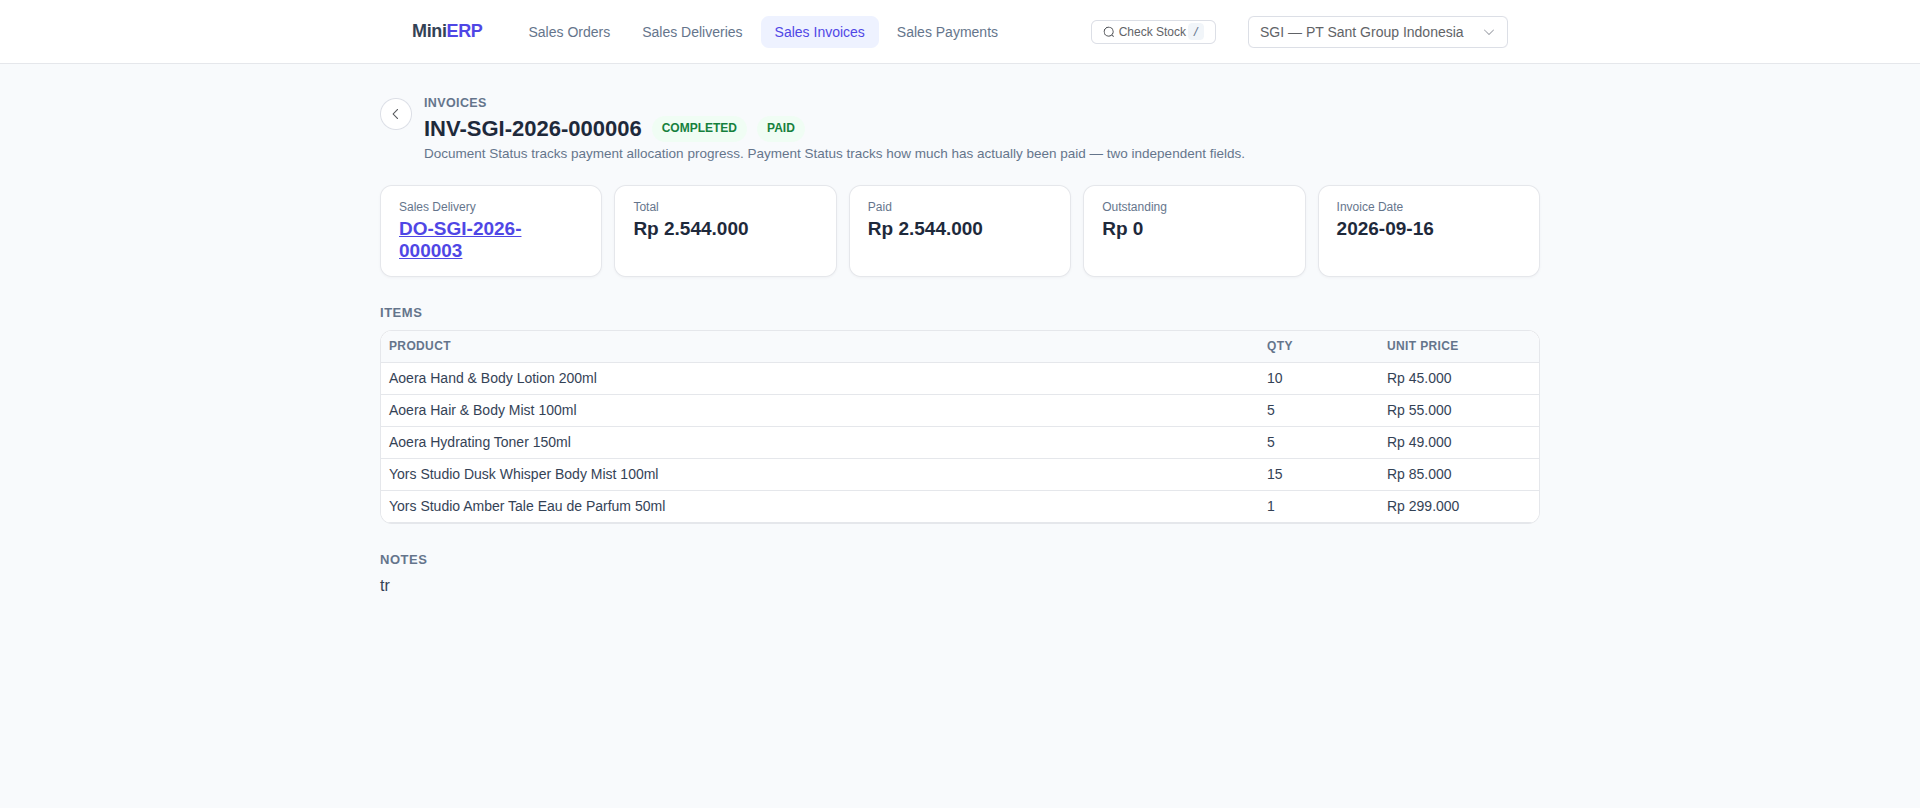
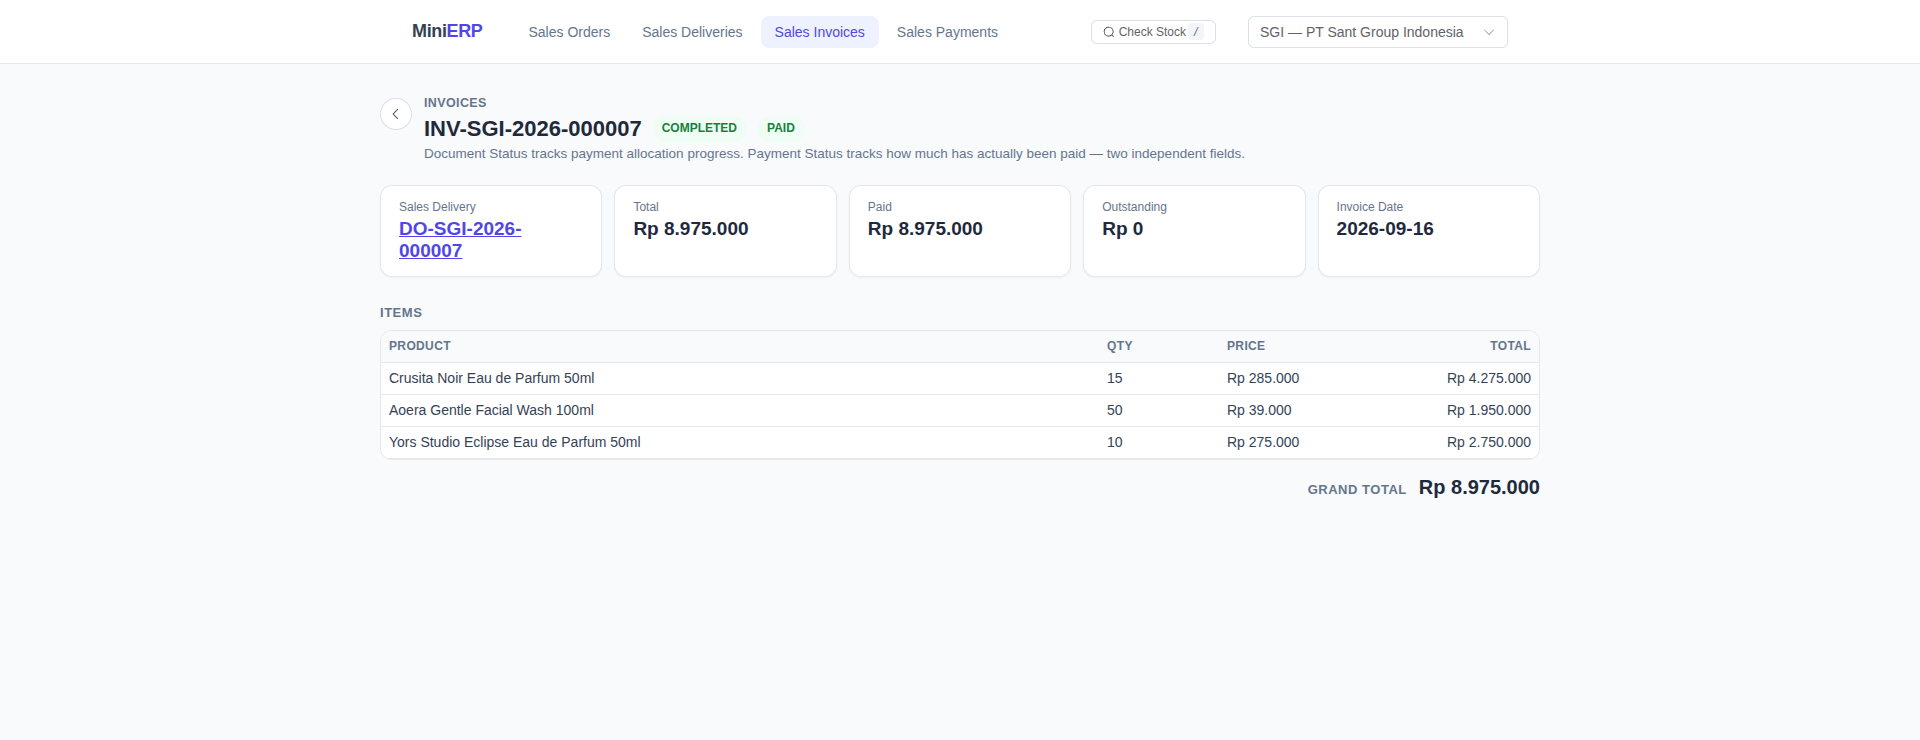
sales module update

diff --git a/frontend/src/components/RemainingQtyPicker.vue b/frontend/src/components/RemainingQtyPicker.vue
@@ -1,10 +1,12 @@
 <script setup lang="ts">
-import { formatQty } from '../utils/format'
+import { computed } from 'vue'
+import { formatMoney, formatQty } from '../utils/format'
 
 export interface PickerRow {
   sourceItemId: number
   productName: string
   available: string
+  unitPrice?: string
 }
 
 const props = defineProps<{
@@ -16,27 +18,46 @@ const emit = defineEmits<{ (e: 'update:modelValue', value: Record<number, string
 function onQtyChange(sourceItemId: number, value: string | number) {
   emit('update:modelValue', { ...props.modelValue, [sourceItemId]: String(value) })
 }
+
+const hasPrice = computed(() => props.rows.some((row) => row.unitPrice !== undefined))
+function rowTotal(row: PickerRow) {
+  return Number(props.modelValue[row.sourceItemId] ?? 0) * Number(row.unitPrice ?? 0)
+}
+const grandTotal = computed(() => props.rows.reduce((sum, row) => sum + rowTotal(row), 0))
 </script>
 
 <template>
-  <el-table :data="rows" size="small" border empty-text="Nothing left to pull -- every line has already been fully pulled.">
-    <el-table-column prop="productName" label="Product" />
-    <el-table-column label="Remaining" width="140">
-      <template #default="{ row }">{{ formatQty(row.available) }}</template>
-    </el-table-column>
-    <el-table-column label="Qty" width="180">
-      <template #default="{ row }">
-        <el-input-number
-          :model-value="Number(modelValue[row.sourceItemId] ?? 0)"
-          :min="0"
-          :max="Math.max(Number(row.available), Number(modelValue[row.sourceItemId] ?? 0))"
-          :step="1"
-          :controls="false"
-          size="small"
-          style="width: 100%"
-          @update:model-value="onQtyChange(row.sourceItemId, $event ?? 0)"
-        />
-      </template>
-    </el-table-column>
-  </el-table>
+  <div>
+    <el-table :data="rows" size="small" border empty-text="Nothing left to pull -- every line has already been fully pulled.">
+      <el-table-column prop="productName" label="Product" />
+      <el-table-column label="Remaining" width="140">
+        <template #default="{ row }">{{ formatQty(row.available) }}</template>
+      </el-table-column>
+      <el-table-column label="Qty" width="180">
+        <template #default="{ row }">
+          <el-input-number
+            :model-value="Number(modelValue[row.sourceItemId] ?? 0)"
+            :min="0"
+            :max="Math.max(Number(row.available), Number(modelValue[row.sourceItemId] ?? 0))"
+            :step="1"
+            :controls="false"
+            size="small"
+            style="width: 100%"
+            @update:model-value="onQtyChange(row.sourceItemId, $event ?? 0)"
+          />
+        </template>
+      </el-table-column>
+      <el-table-column v-if="hasPrice" label="Price" width="160" align="right">
+        <template #default="{ row }">{{ formatMoney(row.unitPrice ?? 0) }}</template>
+      </el-table-column>
+      <el-table-column v-if="hasPrice" label="Total" width="160" align="right">
+        <template #default="{ row }">{{ formatMoney(rowTotal(row)) }}</template>
+      </el-table-column>
+    </el-table>
+
+    <div v-if="hasPrice" class="grand-total">
+      <span class="grand-total-label">Grand Total</span>
+      <span class="grand-total-value">{{ formatMoney(grandTotal) }}</span>
+    </div>
+  </div>
 </template>

diff --git a/frontend/src/views/sales-orders/SalesOrderFormView.vue b/frontend/src/views/sales-orders/SalesOrderFormView.vue
@@ -1,5 +1,5 @@
 <script setup lang="ts">
-import { onMounted, reactive, ref } from 'vue'
+import { computed, onMounted, reactive, ref } from 'vue'
 import { useRouter } from 'vue-router'
 import { ElMessage, ElMessageBox } from 'element-plus'
 import { Delete, Plus } from '@element-plus/icons-vue'
@@ -7,6 +7,7 @@ import { salesOrderApi } from '../../api/salesOrderApi'
 import { useCatalogStore } from '../../stores/catalogStore'
 import { useCompanyStore } from '../../stores/companyStore'
 import { apiErrorMessage } from '../../api/client'
+import { formatMoney } from '../../utils/format'
 import PageHeader from '../../components/PageHeader.vue'
 
 interface FormLine {
@@ -57,6 +58,11 @@ onMounted(async () => {
     }
   }
 })
+
+function lineTotal(row: FormLine) {
+  return (row.qty_ordered || 0) * (row.unit_price || 0)
+}
+const grandTotal = computed(() => items.value.reduce((sum, it) => sum + lineTotal(it), 0))
 
 function addRow() {
   items.value.push({ product_id: null, qty_ordered: 1, unit_price: 0 })
@@ -185,9 +191,14 @@ async function submit(thenSubmit = false) {
             <el-input-number v-model="row.qty_ordered" :min="0.001" :controls="false" style="width: 100%" />
           </template>
         </el-table-column>
-        <el-table-column label="Unit Price" width="180">
+        <el-table-column label="Price" width="180">
           <template #default="{ row }">
             <el-input-number v-model="row.unit_price" :min="0" :controls="false" style="width: 100%" />
+          </template>
+        </el-table-column>
+        <el-table-column label="Total" width="180" align="right">
+          <template #default="{ row }">
+            {{ formatMoney(lineTotal(row)) }}
           </template>
         </el-table-column>
         <el-table-column label="" width="56" align="center">
@@ -206,6 +217,11 @@ async function submit(thenSubmit = false) {
           </template>
         </el-table-column>
       </el-table>
+
+      <div class="grand-total">
+        <span class="grand-total-label">Grand Total</span>
+        <span class="grand-total-value">{{ formatMoney(grandTotal) }}</span>
+      </div>
 
       <div class="form-footer">
         <el-button @click="router.back()">Cancel</el-button>

diff --git a/frontend/src/views/sales-orders/SalesOrderDetailView.vue b/frontend/src/views/sales-orders/SalesOrderDetailView.vue
@@ -97,10 +97,18 @@ function createDelivery() {
       <el-table-column label="Remaining" width="140">
         <template #default="{ row }">{{ formatQty(row.remaining_qty ?? row.qty_ordered) }}</template>
       </el-table-column>
-      <el-table-column label="Unit Price" width="160">
+      <el-table-column label="Price" width="160">
         <template #default="{ row }">{{ formatMoney(row.unit_price) }}</template>
       </el-table-column>
+      <el-table-column label="Total" width="160" align="right">
+        <template #default="{ row }">{{ formatMoney(Number(row.qty_ordered) * Number(row.unit_price)) }}</template>
+      </el-table-column>
     </el-table>
+
+    <div class="grand-total">
+      <span class="grand-total-label">Grand Total</span>
+      <span class="grand-total-value">{{ formatMoney(order.total_amount) }}</span>
+    </div>
 
     <template v-if="order.notes">
       <div class="section-title">Notes</div>

diff --git a/frontend/src/views/sales-invoices/SalesInvoiceDetailView.vue b/frontend/src/views/sales-invoices/SalesInvoiceDetailView.vue
@@ -110,10 +110,18 @@ function createPayment() {
       <el-table-column label="Qty" width="120">
         <template #default="{ row }">{{ formatQty(row.qty) }}</template>
       </el-table-column>
-      <el-table-column label="Unit Price" width="160">
+      <el-table-column label="Price" width="160">
         <template #default="{ row }">{{ formatMoney(row.unit_price) }}</template>
       </el-table-column>
+      <el-table-column label="Total" width="160" align="right">
+        <template #default="{ row }">{{ formatMoney(Number(row.qty) * Number(row.unit_price)) }}</template>
+      </el-table-column>
     </el-table>
+
+    <div class="grand-total">
+      <span class="grand-total-label">Grand Total</span>
+      <span class="grand-total-value">{{ formatMoney(invoice.total_amount) }}</span>
+    </div>
 
     <template v-if="invoice.notes">
       <div class="section-title">Notes</div>

diff --git a/frontend/src/style.css b/frontend/src/style.css
@@ -292,6 +292,26 @@ a {
   border-top: 1px solid var(--border);
 }
 
+.grand-total {
+  display: flex;
+  justify-content: flex-end;
+  align-items: baseline;
+  gap: 12px;
+  margin-top: 16px;
+}
+.grand-total-label {
+  font-size: 13px;
+  font-weight: 600;
+  color: var(--gray-500);
+  text-transform: uppercase;
+  letter-spacing: 0.04em;
+}
+.grand-total-value {
+  font-size: 20px;
+  font-weight: 700;
+  color: var(--gray-900);
+}
+
 /* Filter / search bar */
 .filter-bar {
   display: flex;

diff --git a/frontend/src/views/sales-payments/SalesPaymentDetailView.vue b/frontend/src/views/sales-payments/SalesPaymentDetailView.vue
@@ -94,6 +94,11 @@ async function remove() {
       </el-table-column>
     </el-table>
 
+    <div class="grand-total">
+      <span class="grand-total-label">Grand Total</span>
+      <span class="grand-total-value">{{ formatMoney(payment.total_amount) }}</span>
+    </div>
+
     <template v-if="payment.notes">
       <div class="section-title">Notes</div>
       <p style="color: var(--gray-700); margin: 0">{{ payment.notes }}</p>

diff --git a/frontend/src/views/sales-invoices/SalesInvoiceFormView.vue b/frontend/src/views/sales-invoices/SalesInvoiceFormView.vue
@@ -87,6 +87,7 @@ const rows = computed<PickerRow[]>(() =>
       sourceItemId: it.id,
       productName: it.product?.name ?? `Product #${it.product_id}`,
       available: it.remaining_qty ?? it.qty,
+      unitPrice: it.unit_price,
     })),
 )
 
